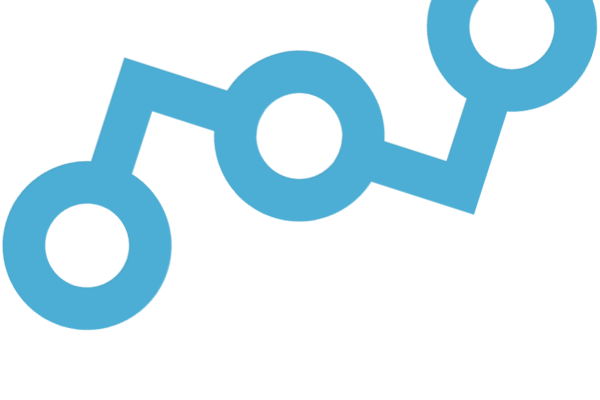
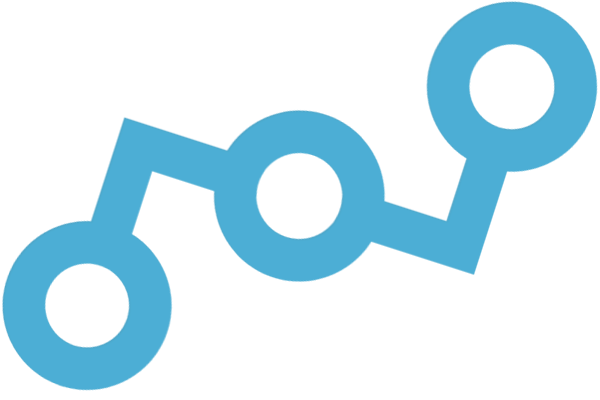
new watermark strategy image; tweaked heading image

diff --git a/css/styles.css b/css/styles.css
@@ -158,20 +158,19 @@ nav.primary .active a {
 	background: #0394CD;
 	color: #FFF;
 	overflow: hidden;
-	padding: 1em 0;
 	width: 100%;
 	z-index: 4;
 }
 
-.heading h1:before {
-	background-image: url(/img/watermark_frontend.png);
+body .heading h1:before {
+	background-repeat: no-repeat;
     content: "";
     display: block;
-    height: 380px;
+    height: 100%;
     left: -40px;
     position: absolute;
     top: 0;
-    width: 576px;
+    width: 100%;
     z-index: -1;
 }
 
@@ -179,7 +178,7 @@ nav.primary .active a {
 	font-size: 2.8em;
 	margin: 0 auto;
 	max-width: 1100px;
-	padding: 0 16px;
+	padding: 1em 16px;
 	position: relative;
 	z-index: 2;
 }
@@ -620,8 +619,12 @@ body.homepage footer.primary img {
 
 /* == headings == */
 
-body .heading h1:before {
+body.strategy .heading h1:before {
 	background-image: url(/img/watermark_strategy.png);
+    left: -100px;
+}
+body.frontend .heading h1:before {
+	background-image: url(/img/watermark_frontend.png);
     left: -100px;
 }
 body.javascript .heading h1:before {
